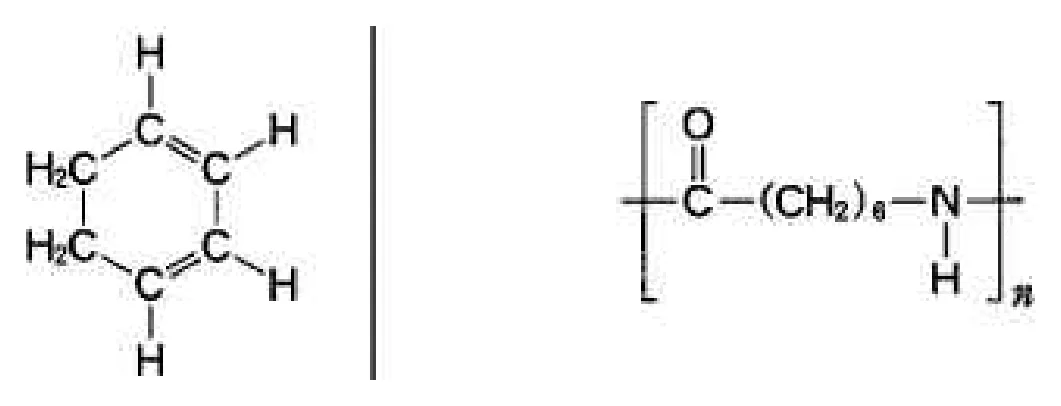
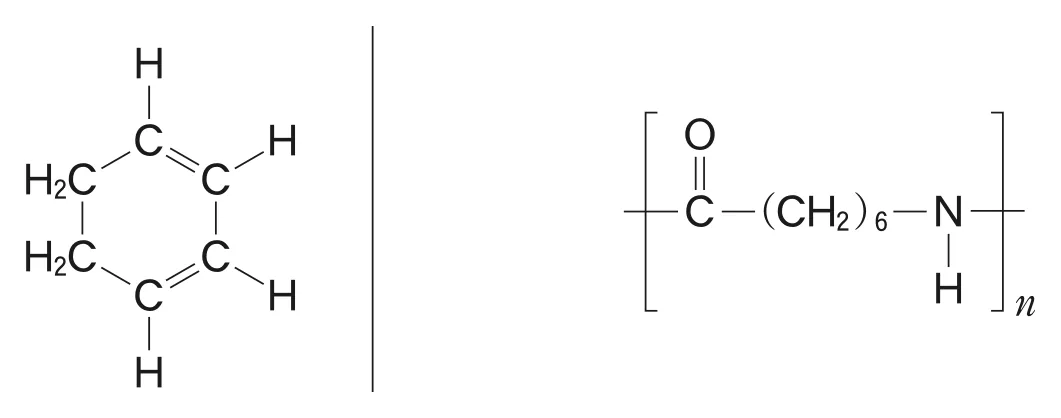
2025年度化学の図26点を大学入試センター公表のベクターPDFからの切り出しに差し替える
低解像度スキャン（約96dpi）からの切り出しを、公表PDF 2025_op_40_kagaku.pdf
からの切り出しに置き換えた。帯の座標は scripts/figure-specs/ に保存し、
ベクターPDFでは点の除去を 0 にする（結合の短い線が消える）注意を書いた。

Changed region(s): [[0.5598, 0.2365, 0.9953, 0.7685], [0.0, 0.0887, 0.2799, 0.9458], [0.3421, 0.0591, 0.3732, 0.9458]]

diff --git a/scripts/crop-figures.py b/scripts/crop-figures.py
@@ -3,6 +3,7 @@
 
 使い方:
     python3 scripts/crop-figures.py spec.json
+    （収録済みの年度の spec は scripts/figure-specs/ にある）
 
 spec.json の形:
 {
@@ -13,6 +14,7 @@ spec.json の形:
   "pad": 26,                 # 余白（renderDpi の画素）
   "maxWidth": 1100,          # 幅の上限（renderDpi の画素）
   "minComponent": 60,        # これ未満の連結成分（画素数）は点として白く消す
+                             # （スキャン冊子向け。ベクターPDFでは短い結合の線が消えるので 0 にする）
   "figures": [
     {"name": "2025-4-2-c1", "page": 25, "band": [x0, y0, x1, y1]}
   ]
